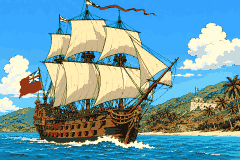
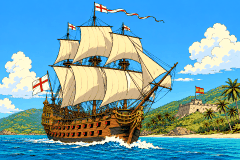
Use the corrected title illustration at up to 256 colours
The user's corrected source has period flags (St George's cross on the
ship, a Spanish fort) and a better framing, so the build no longer repaints
flags. Vignettes may now use up to 256 colours; at 32 the flags' red folded
into the hull browns.

diff --git a/tools/build_title_vignette.py b/tools/build_title_vignette.py
@@ -3,93 +3,28 @@
 
 The source is a 1536 x 1024 diffusion-generated comic-style illustration
 supplied by the user (see assets/vignettes/PROVENANCE.md); it is not kept in
-the repository. The tool:
-
-1. repaints the three Union flags in the source (the ensign's canton, the
-   jack at the fore topmast and the fort's flag) as the 1606 Union Flag. The
-   generated picture drew the post-1801 flag with St Patrick's red saltire,
-   an anachronism for 1560-1680. A flat 1606 flag is warped onto each flag's
-   four corners;
-2. reduces the whole picture to 240 x 160 (3 : 2, the source's own shape)
-   with a box filter;
-3. raises contrast (x1.15) and colour (x1.2) and quantises to 32 colours
-   without dithering, like the governor portraits.
+the repository. The tool reduces the whole picture to 240 x 160 (3 : 2, the
+source's own shape) with a box filter, raises contrast (x1.15) and colour
+(x1.2), and quantises to 256 colours (the most an indexed PNG holds)
+without dithering. The retro look comes from the pixel size, not from a tiny
+palette; at 32 colours the flags' red folded into the hull browns.
 
 Usage: python3 tools/build_title_vignette.py --source <image> [--out <png>]
 Needs Pillow.
 """
 import argparse
 
-from PIL import Image, ImageDraw, ImageEnhance
+from PIL import Image, ImageEnhance
 
 PICTURE_SIZE = (240, 160)
 SOURCE_SIZE = (1536, 1024)
-COLOURS = 32
-BLUE, WHITE, RED, INK = (38, 74, 150), (246, 242, 228), (206, 44, 40), (30, 24, 20)
-
-# Corners of each flag in source pixels: hoist top, fly top, fly bottom,
-# hoist bottom (the ensign flies from a staff on its right).
-FLAG_QUADS = {
-    'ensign canton': [(250, 448), (184, 486), (186, 536), (254, 517)],
-    'fore-topmast jack': [(383, 101), (428, 120), (429, 147), (383, 135)],
-    'fort flag': [(1251, 559), (1273, 568), (1273, 579), (1251, 576)],
-}
-
-
-def union_flag_1606(width=240, height=120):
-    """The 1606 Union Flag: St Andrew's white saltire on blue under St
-    George's red cross with its white border; no St Patrick's saltire."""
-    flag = Image.new('RGB', (width, height), BLUE)
-    draw = ImageDraw.Draw(flag)
-    saltire = round(height * 0.2)
-    draw.line([(0, 0), (width, height)], fill=WHITE, width=saltire)
-    draw.line([(0, height), (width, 0)], fill=WHITE, width=saltire)
-    border = round(height / 3)
-    draw.rectangle([width / 2 - border / 2, 0, width / 2 + border / 2, height], fill=WHITE)
-    draw.rectangle([0, height / 2 - border / 2, width, height / 2 + border / 2], fill=WHITE)
-    cross = round(height / 5)
-    draw.rectangle([width / 2 - cross / 2, 0, width / 2 + cross / 2, height], fill=RED)
-    draw.rectangle([0, height / 2 - cross / 2, width, height / 2 + cross / 2], fill=RED)
-    draw.rectangle([0, 0, width - 1, height - 1], outline=INK, width=3)
-    return flag
-
-
-def solve(matrix, values):
-    """Gaussian elimination with partial pivoting (no numpy dependency)."""
-    size = len(values)
-    rows = [row[:] + [values[index]] for index, row in enumerate(matrix)]
-    for column in range(size):
-        pivot = max(range(column, size), key=lambda row: abs(rows[row][column]))
-        rows[column], rows[pivot] = rows[pivot], rows[column]
-        for row in range(size):
-            if row != column:
-                factor = rows[row][column] / rows[column][column]
-                rows[row] = [a - factor * b for a, b in zip(rows[row], rows[column])]
-    return [rows[index][size] / rows[index][index] for index in range(size)]
-
-
-def perspective_coefficients(target, source):
-    """PIL PERSPECTIVE coefficients mapping target corners to source corners."""
-    matrix, values = [], []
-    for (x, y), (u, v) in zip(target, source):
-        matrix.append([x, y, 1, 0, 0, 0, -u * x, -u * y])
-        values.append(u)
-        matrix.append([0, 0, 0, x, y, 1, -v * x, -v * y])
-        values.append(v)
-    return solve(matrix, values)
+COLOURS = 256
 
 
 def build(source_path, out_path):
     image = Image.open(source_path).convert('RGB')
     if image.size != SOURCE_SIZE:
         raise SystemExit(f'expected a {SOURCE_SIZE[0]} x {SOURCE_SIZE[1]} source, got {image.size}')
-    flag = union_flag_1606()
-    corners = [(0, 0), (flag.width, 0), (flag.width, flag.height), (0, flag.height)]
-    for quad in FLAG_QUADS.values():
-        warped = flag.transform(image.size, Image.Transform.PERSPECTIVE, perspective_coefficients(quad, corners), Image.Resampling.BICUBIC)
-        mask = Image.new('L', image.size)
-        ImageDraw.Draw(mask).polygon(quad, fill=255)
-        image.paste(warped, (0, 0), mask)
     picture = image.resize(PICTURE_SIZE, Image.Resampling.BOX)
     picture = ImageEnhance.Contrast(picture).enhance(1.15)
     picture = ImageEnhance.Color(picture).enhance(1.2)

diff --git a/docs/scene-vignettes.md b/docs/scene-vignettes.md
@@ -22,7 +22,7 @@ original game, or describe its pictures, in a prompt.
 | Framed vignette | **240 × 144** art px |
 | Display | 2 screen px per art pixel → **480 × 288 CSS px**, like the clouds (`CLOUD_ART_PIXEL = 2`). It fits the 486 px content width of `#event-dialog` (540 px − 2 × 27 px padding). Below about 520 px of viewport, draw 1 px per art pixel (240 × 144). Always whole-number scale, `image-rendering: pixelated`. |
 | Generate at | **1792 × 1024** (exactly 8 × the picture; most generators accept 7 : 4 or 16 : 9) |
-| Reduce | Downscale ×8 with a box or nearest filter to 224 × 128, quantise to ≤ 32 colours, clean the 1 px outlines by hand |
+| Reduce | Downscale ×8 with a box or nearest filter to 224 × 128, quantise to ≤ 256 colours (indexed PNG), clean the 1 px outlines by hand |
 | File | `assets/vignettes/<id>.png`, 224 × 128, indexed PNG, no frame baked in |
 
 Why this size: 224 × 128 keeps a figure's face about 12–16 art px tall in a
@@ -34,7 +34,7 @@ the largest 2× picture that fits the existing dialog without changing it.
 Put this block in front of every scene prompt.
 
 > Pixel-art illustration, 224×128 native pixels rendered at 1792×1024 (every
-> art pixel a clean 8×8 block), about 32 colours, no anti-aliasing, no
+> art pixel a clean 8×8 block), a rich palette, no anti-aliasing, no
 > smooth gradients, at most light ordered dithering. A one-pixel very dark
 > brown outline (#21180f) around figures and objects. Flat cel shading with
 > 2–3 tones per material. Light from the upper left. Drawing and composition
@@ -534,10 +534,9 @@ artwork stays whole. It is shown at 2× (1× below 620 px wide or 640 px tall).
 The art is `assets/vignettes/title-ship.png`, built by
 `tools/build_title_vignette.py` (provenance in
 `assets/vignettes/PROVENANCE.md`): a three-masted English warship under full
-sail, seen from ahead and to one side, off a palm-fringed island with a
-stone fort. The build repaints its Union flags as the 1606 flag, without St
-Patrick's saltire (added in 1801). Until the image loads, the code-drawn
-sloop placeholder stands in.
+sail flying St George's cross, seen from ahead and to one side, off a
+palm-fringed island with a Spanish stone fort. Until the image loads, the
+code-drawn sloop placeholder stands in.
 
 Picked by a script for each era and nationality, and shown before play
 begins (CSTR 1–44, `src/opening.mjs`). These strings have no pictures in the
@@ -609,7 +608,7 @@ exist.
 ## 6. Checklist per picture
 
 1. Shared style block + scene prompt + negative prompt, at 1792 × 1024.
-2. Downscale ×8 to 224 × 128, quantise to ≤ 32 colours, fix the outlines.
+2. Downscale ×8 to 224 × 128, quantise to ≤ 256 colours, fix the outlines.
 3. Check it at 1× and 2× inside the frame, in the dialog, at a desktop size
    and a narrow viewport.
 4. Add tool, model, seed and prompt to `assets/vignettes/PROVENANCE.md`,

diff --git a/assets/vignettes/PROVENANCE.md b/assets/vignettes/PROVENANCE.md
@@ -48,18 +48,18 @@ England, France, Holland; rows 1560, 1600, 1620, 1640, 1660, 1680). See
 ## title-ship.png
 
 The title screen picture, 240 × 160 (3 : 2): a three-masted English warship
-under full sail off a palm-fringed island with a stone fort.
+flying St George's cross, under full sail off a palm-fringed island with a
+Spanish stone fort.
 
 - **Source:** a 1536 × 1024 comic-style illustration generated by a
-  diffusion model from a text prompt, supplied by the user on 2026-11-15,
-  who holds the rights to it. The tool, model and prompt were not recorded.
-  The source file is not kept in the repository. No material from the
-  original game was used.
-- **Process:** `tools/build_title_vignette.py` repaints the three Union flags
-  (the ensign's canton, the jack at the fore topmast, the fort's flag) as the
-  1606 Union Flag; the generated picture showed the post-1801 flag with St
-  Patrick's saltire, an anachronism for 1560–1680. It then reduces the
-  picture to 240 × 160 with a box filter, raises contrast (×1.15) and colour
-  (×1.2), and quantises to 32 colours without dithering (indexed PNG).
+  diffusion model from a text prompt, supplied by the user, who holds the
+  rights to it. The first version (2026-11-15) was replaced the same day by
+  a corrected one with period flags and a better framing. The tool, model
+  and prompt were not recorded. The source file is not kept in the
+  repository. No material from the original game was used.
+- **Process:** `tools/build_title_vignette.py` reduces the picture to
+  240 × 160 with a box filter, raises contrast (×1.15) and colour (×1.2),
+  and quantises to 256 colours (median cut) without dithering (indexed
+  PNG).
 - **Rebuild:** `python3 tools/build_title_vignette.py --source <image>`
   (Pillow).

diff --git a/CHANGELOG.md b/CHANGELOG.md
@@ -115,8 +115,10 @@ history.
   comic-style illustration. It replaces the code-drawn sloop, which remains
   only as a fallback while the image loads. The picture keeps the
   artwork's 3 : 2 shape (240 × 160) instead of being cropped to the dialog
-  format. Its Union flags are drawn as the 1606 flag, without the red
-  saltire of St Patrick that was only added in 1801.
+  format. The ship flies St George's cross, as English ships of the period
+  did, and the island's fort is Spanish. The picture uses up to 256 colours:
+  vignettes are no longer held to a 32-colour palette, since the retro look
+  comes from the pixel size.
 
 - Fort battles are fought on the real coast round the town, cut from the
   sailing map and painted the same way, north up, so its capes, bays and

diff --git a/AGENTS.md b/AGENTS.md
@@ -50,6 +50,9 @@ approved art, it is a temporary code-drawn vignette, and each real picture
 replaces its placeholder in its own commit. The title logo shows both sides:
 "Retro" in pixel letters, "Pirates!" in a script typeface.
 
+Vignette palettes may use up to 256 colours (an indexed PNG): the retro look
+comes from the pixel size, not from a tiny palette.
+
 Provenance of original art: new vignette artwork is generated by a diffusion
 model from a text prompt and supplied by the user, who holds its rights
 (public-domain material, such as the governors' period paintings, is also
